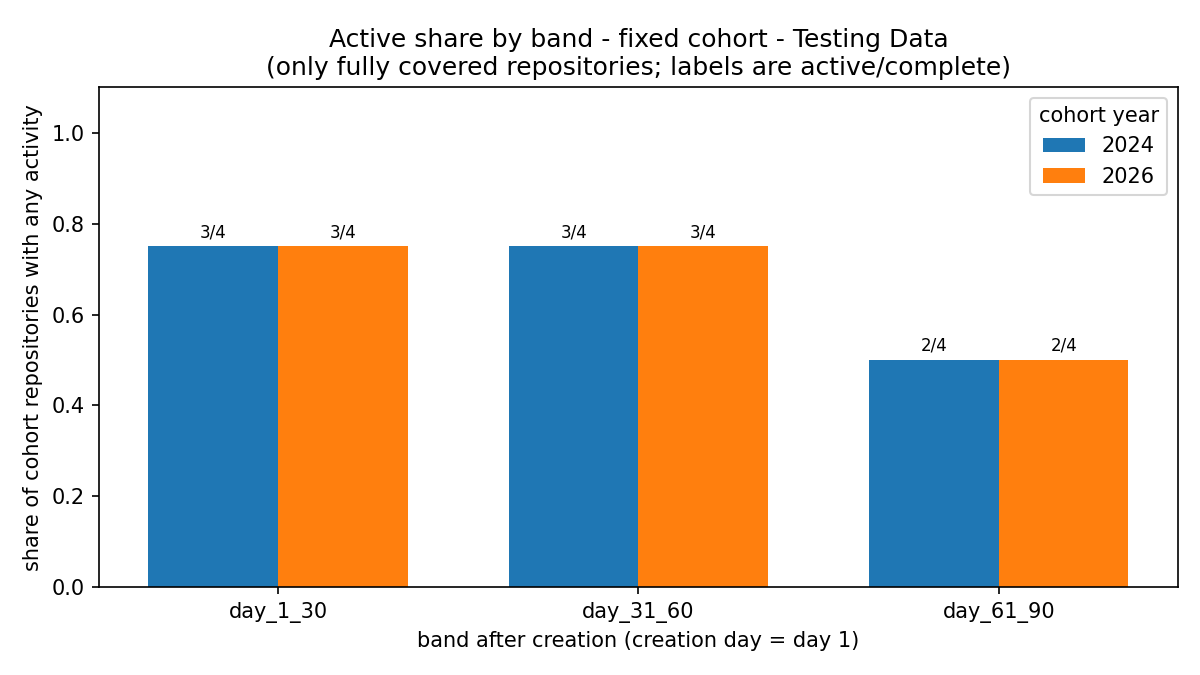
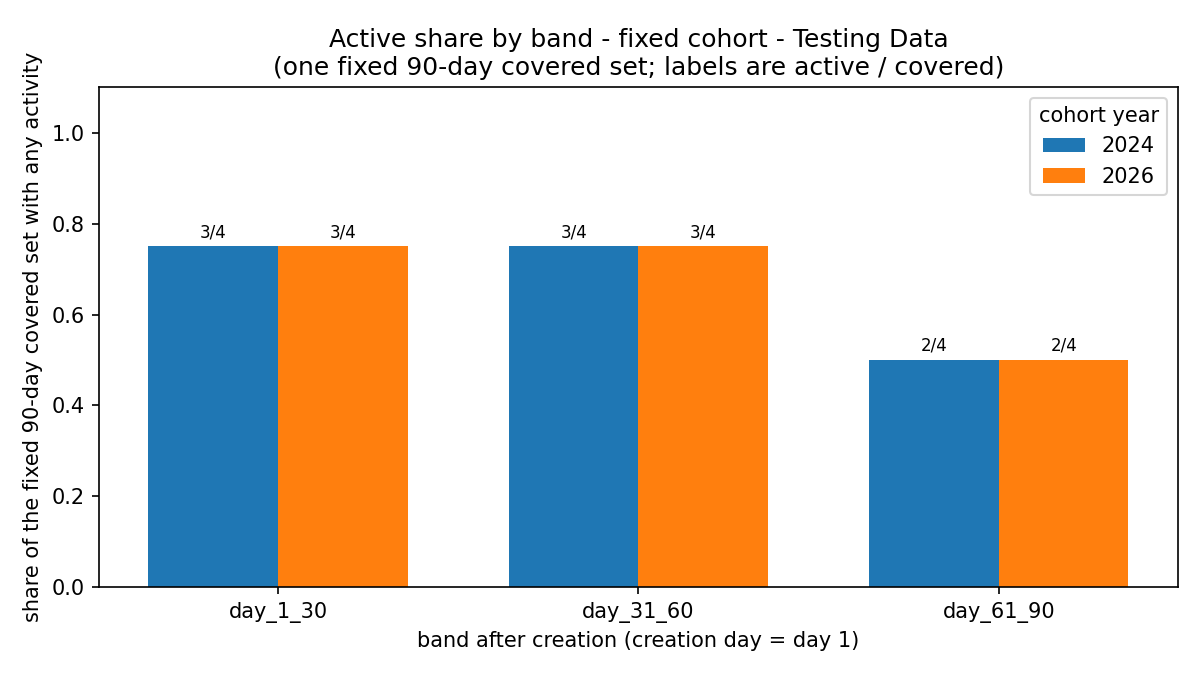
C 2026-11-12: one fixed 90-day denominator for all three bands
The official cohort comparison now tracks the same repositories in every band: the denominator is the cohort repos fully covered for the whole 90-day window (complete in all three bands). Repos that fall short are counted in not_complete_90d_repos and never enter the active ratio or the distributions; when that set is empty active_ratio, total_events_sum and the quantiles are NaN, never 0.

Renames complete_repos/incomplete_repos to complete_90d_repos/not_complete_90d_repos across cohort_analysis.py, the worked-example notebook (re-run), metrics_definitions.md and the Testing Data README; regenerated the 2024/2026 summary CSVs and the band figure. requirements.txt header now names both notebooks.

Changed region(s): [[0.2158, 0.0622, 0.8633, 0.1244], [0.0, 0.0933, 0.0308, 0.9333]]

diff --git a/c_lifecycle_analysis/cohort_analysis.py b/c_lifecycle_analysis/cohort_analysis.py
@@ -12,6 +12,12 @@ no activity after day 60 stays in the list. A band with a fully covered window
 and no events is a real ``0``; a band whose source days were not fully processed
 is marked ``incomplete`` and is not silently read as zero activity.
 
+The official cohort comparison uses **one fixed denominator for all three
+bands**: the cohort repositories whose whole 90-day window was fully covered
+(complete in every band). Repositories that fall short are reported next to it
+and never enter the active ratio or the distributions; when that set is empty
+the ratio and the totals are not computable (``NaN``), never 0.
+
 All day arithmetic uses UTC calendar days (time-of-day is dropped before the
 subtraction), consistent with ``age_band_metrics`` in the round-1 notebook.
 
@@ -336,40 +342,45 @@ def out_of_band_events(cohort, daily):
 # cohort aggregation
 # --------------------------------------------------------------------------- #
 def aggregate_cohort(stage_table, cohort_size):
-    """Aggregate the cohort per band.
+    """Aggregate the cohort per band around one fixed official denominator.
 
-    Official figures use only repositories whose band window was fully covered
-    (the same denominator for all three bands requires the complete-90-day set;
-    here it is reported per band so partial coverage is visible). A band with no
-    fully covered repository reports ``active_ratio = NaN`` instead of 0.
+    The official comparison tracks the **same** repositories in all three bands,
+    so the denominator is the set of cohort repositories whose whole 90-day
+    window was fully covered (complete in every band). Repositories that do not
+    meet this stay in ``not_complete_90d_repos`` and never enter the ratio or the
+    distributions. When that set is empty the ratio, the event total and the
+    quantiles are not computable (``NaN``), never 0.
     """
+    complete_90d = stage_table.groupby("repo_id")["band_complete"].all()
+    official_ids = set(complete_90d[complete_90d].index)
+    n_official = len(official_ids)
+
     rows = []
     for band_name in BAND_ORDER:
         band = stage_table[stage_table["band"] == band_name]
-        complete = band[band["band_complete"]]
-        n_complete = int(complete["repo_id"].nunique())
-        active = int((complete["total_events"] > 0).sum())
+        official = band[band["repo_id"].isin(official_ids)]
 
-        events = complete["total_events"]
-        days = complete["active_days"]
+        active = int((official["total_events"] > 0).sum()) if n_official else 0
+        events = official["total_events"]
+        days = official["active_days"]
 
         rows.append(
             dict(
-                cohort_year=int(band["cohort_year"].iloc[0]) if len(band) else np.nan,
-                data_kind=band["data_kind"].iloc[0] if len(band) else "",
+                cohort_year=int(band["cohort_year"].iloc[0]),
+                data_kind=band["data_kind"].iloc[0],
                 band=band_name,
                 cohort_size=int(cohort_size),
-                complete_repos=n_complete,
-                incomplete_repos=int(band["repo_id"].nunique()) - n_complete,
+                complete_90d_repos=n_official,
+                not_complete_90d_repos=int(cohort_size) - n_official,
                 active_repos=active,
-                active_ratio=(active / n_complete) if n_complete else np.nan,
-                total_events_sum=int(events.sum()) if n_complete else 0,
-                events_median=float(events.median()) if n_complete else np.nan,
-                events_q25=float(events.quantile(0.25)) if n_complete else np.nan,
-                events_q75=float(events.quantile(0.75)) if n_complete else np.nan,
-                active_days_median=float(days.median()) if n_complete else np.nan,
-                active_days_q25=float(days.quantile(0.25)) if n_complete else np.nan,
-                active_days_q75=float(days.quantile(0.75)) if n_complete else np.nan,
+                active_ratio=(active / n_official) if n_official else np.nan,
+                total_events_sum=int(events.sum()) if n_official else np.nan,
+                events_median=float(events.median()) if n_official else np.nan,
+                events_q25=float(events.quantile(0.25)) if n_official else np.nan,
+                events_q75=float(events.quantile(0.75)) if n_official else np.nan,
+                active_days_median=float(days.median()) if n_official else np.nan,
+                active_days_q25=float(days.quantile(0.25)) if n_official else np.nan,
+                active_days_q75=float(days.quantile(0.75)) if n_official else np.nan,
             )
         )
     return pd.DataFrame(rows)

diff --git a/testing_data/README.md b/testing_data/README.md
@@ -121,15 +121,16 @@ Out-of-band events: `...001` pre-creation 1, beyond day 90 = 1; `...003` beyond 
 
 ### 2024, complete coverage - cohort summary per band
 
-| band | cohort_size | complete | incomplete | active | active_ratio | total_events | events_median | events_q25 | events_q75 | active_days_median | active_days_q25 | active_days_q75 |
+| band | cohort_size | complete_90d | not_complete_90d | active | active_ratio | total_events | events_median | events_q25 | events_q75 | active_days_median | active_days_q25 | active_days_q75 |
 |---|---|---|---|---|---|---|---|---|---|---|---|---|
 | day_1_30 | 4 | 4 | 0 | 3 | 0.75 | 19 | 3.5 | 1.50 | 6.75 | 2.5 | 1.50 | 3.25 |
 | day_31_60 | 4 | 4 | 0 | 3 | 0.75 | 9 | 2.0 | 0.75 | 3.50 | 2.0 | 0.75 | 3.00 |
 | day_61_90 | 4 | 4 | 0 | 2 | 0.50 | 13 | 1.5 | 0.00 | 4.75 | 1.5 | 0.00 | 3.00 |
 
-The active ratio uses the **whole fixed cohort** (4), not just the repositories with events: in
-day_61_90 only `...002` and `...003` are active, so the ratio is 2/4 = 0.50. Zero-activity `...004`
-still counts in the denominator.
+Here all 4 repositories are covered for the whole 90 days, so the official denominator is 4 in every
+band. The ratio uses that **fixed set** (not just the repositories with events): in day_61_90 only
+`...002` and `...003` are active, so the ratio is 2/4 = 0.50. Zero-activity `...004` still counts in
+the denominator.
 
 ### 2026, complete coverage
 
@@ -152,7 +153,7 @@ Per repository x band (same tuple order):
 
 Cohort summary per band:
 
-| band | cohort_size | complete | incomplete | active | active_ratio | total_events | events_median | active_days_median |
+| band | cohort_size | complete_90d | not_complete_90d | active | active_ratio | total_events | events_median | active_days_median |
 |---|---|---|---|---|---|---|---|---|
 | day_1_30 | 4 | 4 | 0 | 3 | 0.75 | 9 | 2.5 | 1.0 |
 | day_31_60 | 4 | 4 | 0 | 3 | 0.75 | 6 | 1.5 | 1.0 |
@@ -172,23 +173,32 @@ For both years, band day_61_90 of the missing variant:
 | ...003 | 30 | 29 | incomplete | True |
 | ...004 | 30 | 28 | incomplete | True |
 
-Cohort summary, 2024 day_61_90 with missing coverage: `complete_repos = 2`,
-`incomplete_repos = 2`, `active_repos = 1`, `active_ratio = 0.50`, `total_events_sum = 3`.
+Cohort summary, 2024 with missing coverage - the official set is now the 2 repositories covered for
+the whole 90 days, so `complete_90d_repos = 2` and `not_complete_90d_repos = 2` in **every** band:
 
-Repositories are **kept** in the table; the incomplete band is only flagged. The official ratio uses
-the 2 fully covered repositories (1/2 = 50%) and never treats an unobserved band as zero activity.
-Bands day_1_30 and day_31_60 stay fully covered (`complete_repos = 4`).
-
-### A band with no fully covered repository
-
-If day_61_90 has **no** fully covered repository, the active ratio must be **not computable**
-(`NaN`), never 0%. This is checked by dropping the June days on top of the missing variant:
-
-| band | complete | incomplete | active | active_ratio | total_events |
+| band | complete_90d | not_complete_90d | active | active_ratio | total_events |
 |---|---|---|---|---|---|
-| day_1_30 | 4 | 0 | 3 | 0.75 | 19 |
+| day_1_30 | 2 | 2 | 2 | 1.00 | 17 |
 | day_31_60 | 2 | 2 | 2 | 1.00 | 4 |
-| day_61_90 | 0 | 4 | 0 | NaN | 0 |
+| day_61_90 | 2 | 2 | 1 | 0.50 | 3 |
+
+Repositories are **kept** in the table; the incomplete band is only flagged. `...003` and `...004`
+lose their day-61-90 coverage, so they leave the fixed 90-day set - and therefore drop out of the
+ratio in *all three* bands, not just day_61_90. The band-1 and band-2 counts for the official set
+(`...001`: 12 and 1 events; `...002`: 5 and 3) stay visible in the per-repository table, and an
+unobserved band is never treated as zero activity.
+
+### No repository covered for the whole 90 days
+
+If the fixed 90-day set is **empty**, the ratio, the event total and the quantiles must be **not
+computable** (`NaN`), never 0%. This is checked by dropping the June days, which breaks the day-61-90
+window of all four repositories:
+
+| band | complete_90d | not_complete_90d | active | active_ratio | total_events |
+|---|---|---|---|---|---|
+| day_1_30 | 0 | 4 | 0 | NaN | NaN |
+| day_31_60 | 0 | 4 | 0 | NaN | NaN |
+| day_61_90 | 0 | 4 | 0 | NaN | NaN |
 
 ## Regenerating and re-checking
 

diff --git a/c_lifecycle_analysis/metrics_definitions.md b/c_lifecycle_analysis/metrics_definitions.md
@@ -135,12 +135,14 @@ be read as "the repository was inactive".
 
 Grouped by year x band, over the fixed cohort:
 
-- `cohort_size`, `complete_repos`, `incomplete_repos`, `active_repos`;
+- `cohort_size`, `complete_90d_repos`, `not_complete_90d_repos`, `active_repos`;
 - `active_ratio`, `total_events_sum`, and the median / q25 / q75 of `total_events` and `active_days`.
 
-`active_ratio` = active repositories / repositories with a **fully covered** band. It is computed
-over the fixed cohort (never only over the repositories that happen to have events), and fully
-covered zero-activity repositories stay in the denominator and in the distribution. When a band has
-**no** fully covered repository, the ratio is **not computable** (`NaN`), never 0%. A fully covered
-90-day denominator is required for the official comparison; a shorter observed window may be shown
-as observed values only.
+`active_ratio` = active repositories / `complete_90d_repos`. `complete_90d_repos` is the **fixed
+official denominator**: the cohort repositories whose whole 90-day window was fully covered
+(complete in *every* band). It is the **same set** for all three bands, so the bands stay comparable
+and a repository missing coverage in one band leaves the ratio in all three. Repositories that fall
+short are counted in `not_complete_90d_repos` and never enter the ratio or the distributions;
+fully-covered zero-activity repositories stay in the denominator and in the distribution. When no
+repository is covered for the whole 90 days the set is empty, so `active_ratio`, `total_events_sum`
+and the quantiles are **not computable** (`NaN`), never 0%.
